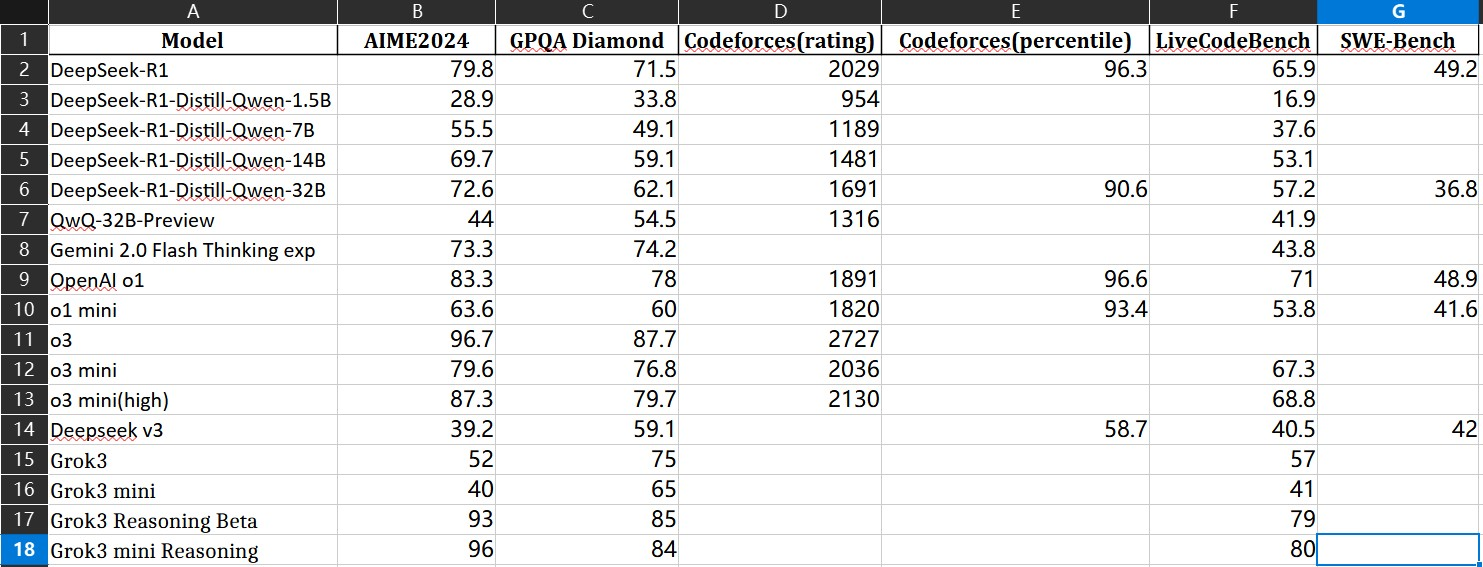
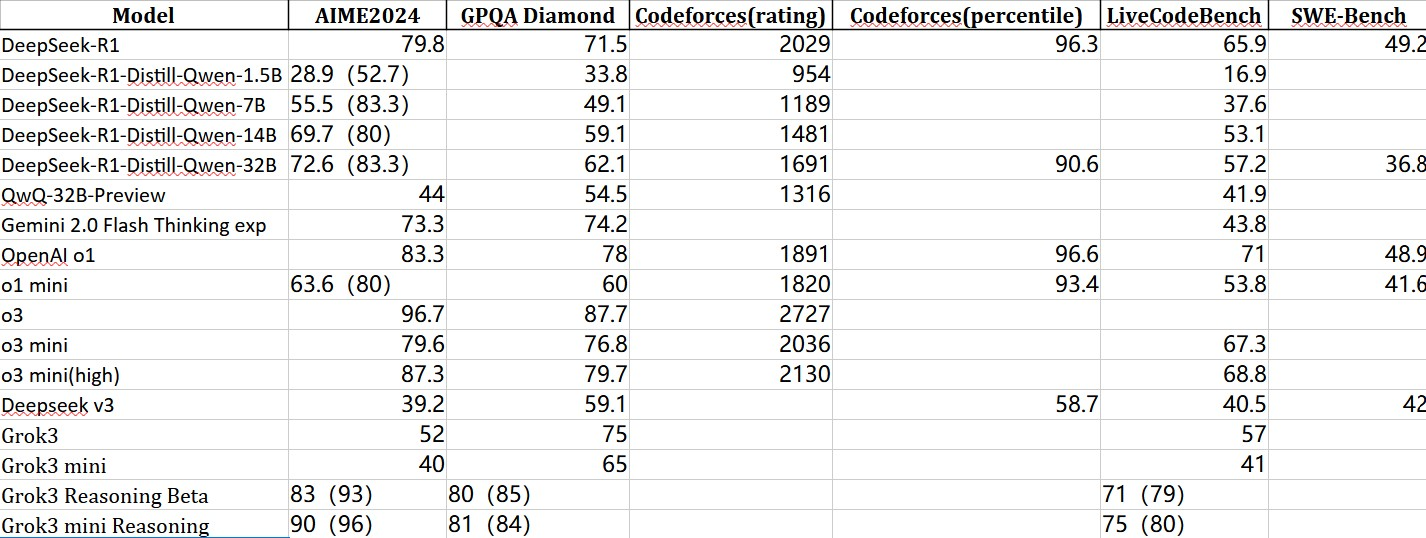
update article

Changed region(s): [[0.0, 0.0, 1.0, 1.0], [0.5554, 0.9814, 0.6171, 1.0]]

diff --git a/ai-note/pages/LLM.py b/ai-note/pages/LLM.py
@@ -11,7 +11,7 @@ st.image("ai-note/files/多模态模型.jpg")
 st.write("早期的多模态模型大多只支持文本和图像，GPT 4o首次支持语音。在开源模型方面，MiniCPM v2.6 o通过整合不同模型实现对文本、视频和语音的支持，原生支持文本和语音的有Step Audio，原生支持文本、视频和语音的模型中最好的开源模型是Ola 7b。")
 
 st.subheader("3.推理模型", divider=True)
-st.write("推理模型可以通过增加推理步骤来提高性能。目前最优秀的闭源推理模型是Grok3 Reasoning系列，基本能对标未发布的o3。最优秀的开源推理模型是Deepseek R1，其蒸馏版本在本地部署上有优势。以下是几个模型的对比（由于不少模型不是同时测试，表中只保留了有较多模型进行的测试，另外使用非推理模型中表现最好的Deepseek v3作为对照）")
+st.write("推理模型可以通过增加推理步骤来提高性能。目前最优秀的闭源推理模型是Grok3 Reasoning系列，基本能对标未发布的o3。最优秀的开源推理模型是Deepseek R1，其蒸馏版本在本地部署上有优势。以下是几个模型的对比（由于不少模型不是同时测试，表中只保留了有较多模型进行的测试。beat of 64测试的结果写到括号内）")
 st.image("ai-note/files/推理模型.jpg")
 
 st.subheader("4.小型化旗舰模型", divider=True)
